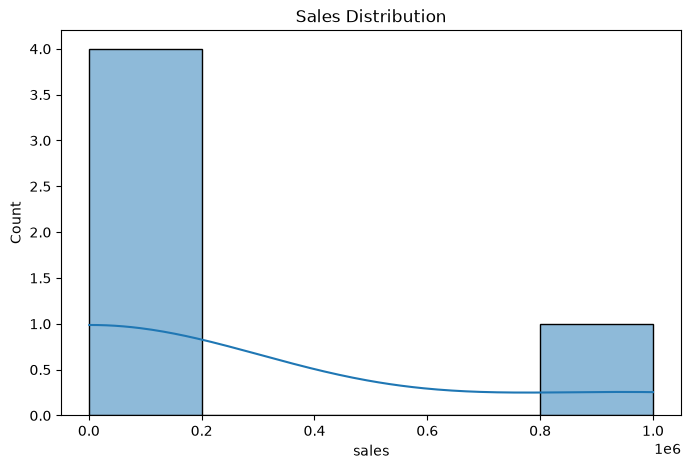
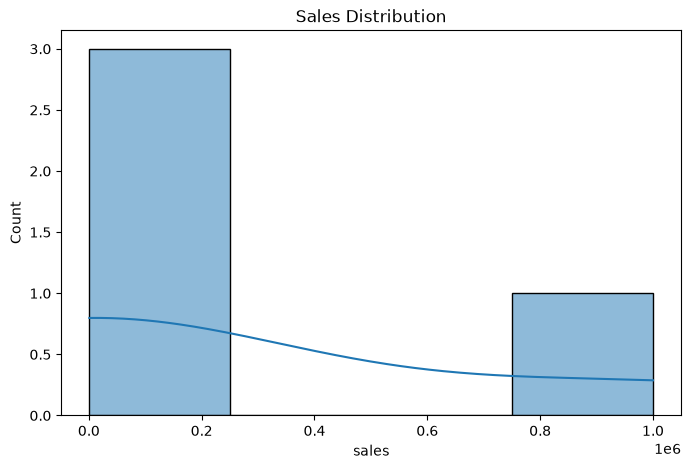
Add custom CSV input support

diff --git a/reports/analysis_report.html b/reports/analysis_report.html
@@ -40,7 +40,7 @@
         <h2>Dataset overview</h2>
 
         <p>
-        Rows: 5
+        Rows: 4
         </p>
 
         <p>
@@ -54,7 +54,7 @@
         <h2>🤖 AI Анализ</h2>
 
         <ul>
-        <li>В колонке 'age' обнаружено пропусков: 1.</li><li>В колонке 'sales' найдены аномальные значения: [999999].</li>
+        <li>⚠ В колонке 'age' обнаружено пропусков: 1. Рекомендация: проверить источник данных или заполнить значения.</li><li>⚠ В колонке 'sales' найдены аномальные значения: [999999]. Рекомендация: проверить корректность этих записей.</li>
         </ul>
 
     </div>

diff --git a/app/insights.py b/app/insights.py
@@ -8,8 +8,10 @@ def generate_insights(report):
     for column, value in report["missing_values"].items():
 
         if value > 0:
+
             insights.append(
-                f"В колонке '{column}' обнаружено пропусков: {value}."
+                f"⚠ В колонке '{column}' обнаружено пропусков: {value}. "
+                f"Рекомендация: проверить источник данных или заполнить значения."
             )
 
 
@@ -18,14 +20,16 @@ def generate_insights(report):
     if report["duplicates"] > 0:
 
         insights.append(
-            f"Найдено полных дубликатов строк: {report['duplicates']}."
+            f"⚠ Найдено полных дубликатов: {report['duplicates']}. "
+            f"Рекомендация: удалить повторяющиеся записи."
         )
 
 
     if report["duplicates_without_id"] > 0:
 
         insights.append(
-            "Обнаружены повторяющиеся записи без учета ID."
+            "⚠ Найдены повторяющиеся записи без учета ID. "
+            "Рекомендация: проверить уникальность данных."
         )
 
 
@@ -34,16 +38,15 @@ def generate_insights(report):
     for column, values in report["outliers"].items():
 
         insights.append(
-            f"В колонке '{column}' найдены аномальные значения: {values}."
+            f"⚠ В колонке '{column}' найдены аномальные значения: {values}. "
+            f"Рекомендация: проверить корректность этих записей."
         )
 
-
-    # Если проблем нет
 
     if not insights:
 
         insights.append(
-            "Качество данных хорошее. Существенных проблем не обнаружено."
+            "✅ Качество данных хорошее. Существенных проблем не обнаружено."
         )
 
 

diff --git a/app/main.py b/app/main.py
@@ -1,3 +1,4 @@
+import sys
 from data_loader import load_csv
 from analyzer import analyze_data
 from report import print_report
@@ -11,8 +12,13 @@ from insights import generate_insights
 
 def main():
 
-    df = load_csv("data/test.csv")
+    if len(sys.argv) > 1:
+    	file_path = sys.argv[1]
+    else:
+    	file_path = "data/test.csv"
 
+
+    df = load_csv(file_path)
     report = analyze_data(df)
     insights = generate_insights(report)
 
